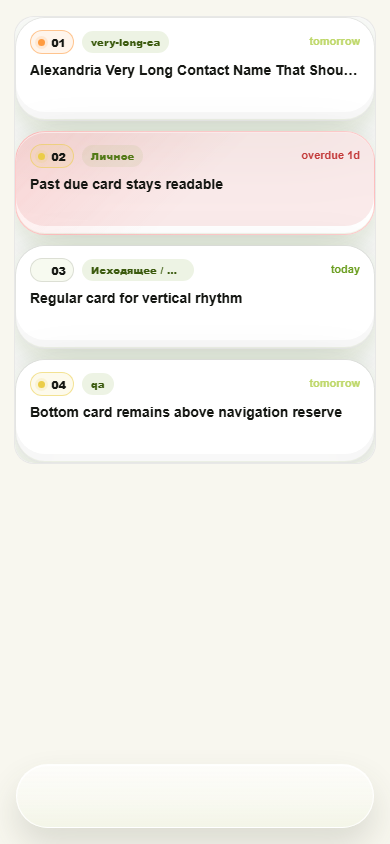
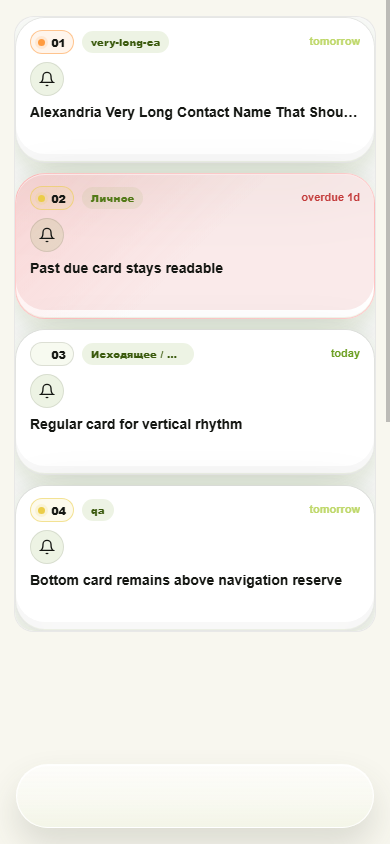
docs(ui): close glass package two handoff

Changed region(s): [[0.0308, 0.0, 1.0, 0.5545], [0.0615, 0.5545, 0.9231, 0.7085], [0.8923, 0.5237, 0.9538, 0.5545]]

diff --git a/pm/outbox/REPORT-BRIEF-2026-07-24-56-glass-package2-visual-qa-handoff.md b/pm/outbox/REPORT-BRIEF-2026-07-24-56-glass-package2-visual-qa-handoff.md
@@ -1,36 +1,105 @@
 # REPORT-BRIEF-2026-07-24-56-glass-package2-visual-qa-handoff
 
-Outcome: `BLOCKED-DEPENDENCY`
+Outcome: `DONE`
 
-## Dependency Gate
+## Scope
 
-Brief 56 is the package 2 closeout and requires outcomes/evidence from briefs 53, 54 and 55.
+Closed the package 2 visual QA handoff for the already completed glass slices.
+No new runtime design family was added. The only code change was a narrow
+`smoke:back050` reliability fix: the script now uses the same Windows
+Chrome/Edge candidates and bounded Chrome cleanup pattern as the working
+home smoke.
 
-Current state:
+Production and `main` were untouched. No CAL, price, payment, entitlement,
+auth-security or secret work was touched.
 
-- 53: `BLOCKED-DEPENDENCY`, commit `615d4444e420e522c8b8473c988d404adc1d7402`
-- 54: `BLOCKED-DEPENDENCY`, commit `2539105bb198ef7aa64469bae474c939d0884820`
-- 55: `BLOCKED-DEPENDENCY`, commit `f2d06532fd489849ddcc1431dfec256e41571525`
+## Brief / Commit Matrix
 
-Because package 2 runtime work did not happen, a package 2 visual QA handoff would be misleading and was not produced.
+| Brief | Outcome | Commit |
+| --- | --- | --- |
+| `BRIEF-2026-07-24-53-glass-home-focus-dashboard-package2.md` | `DONE` | `60dd5979d8e9a2859c2acbf73e31733afb669afd` |
+| `BRIEF-2026-07-24-54-glass-task-list-card-family-package2.md` | `DONE` | `a839a26d9b88c985f223de4cc4ca291d0b78158a` |
+| `BRIEF-2026-07-24-55-glass-profile-menu-package2.md` | `DONE` | `2fa8e39da4dd1e3f126d8f932a1f050d8ad9f007` |
 
-## Root Cause
+## Evidence Set
 
-Brief 56 asks to confirm 53, 54 and 55 outcomes and capture a coherent package 2 evidence set. Those prerequisite briefs are blocked by the brief 52 `NEED-CLAUDE` QA gate.
+Home/focus light and dark at 390x844:
 
-## Changed Files
+- `docs/tasks/assets/HOME-001-dashboard-smoke-2026-07-20-light.png`
+- `docs/tasks/assets/HOME-001-dashboard-smoke-2026-07-20-dark.png`
+- `npm run smoke:home001`: `ok=true`, `failures=[]`, `viewportWidth=390`, `documentScrollWidth=390`, `homeRows=3`, `dark.scrollWidth=390`, `light.scrollWidth=390`.
 
-- `pm/inbox/BRIEF-2026-07-24-56-glass-package2-visual-qa-handoff.md`
-- `pm/outbox/REPORT-BRIEF-2026-07-24-56-glass-package2-visual-qa-handoff.md`
-- `shared/WORK_LOG.md`
-- `DEVELOPMENT_LOG.md`
+Task list with overdue, normal and completed states:
+
+- `docs/tasks/assets/BACK-019-task-card-glass-2026-07-27-light.png`
+- `docs/tasks/assets/BACK-019-task-card-glass-2026-07-27-dark.png`
+- `npm run smoke:back019`: `ok=true`, `failures=[]`, `viewportWidth=390`, `documentScrollWidth=390`, `doneFetchCount=1`, `doneFailureToast="Не удалось завершить задачу"`, `lastCardBottom=631`, `navTop=764`.
+
+Profile/menu light and dark at 390x844:
+
+- `docs/tasks/assets/PROFILE-glass-package2-2026-07-28-light.png`
+- `docs/tasks/assets/PROFILE-glass-package2-2026-07-28-dark.png`
+- `npm run smoke:profile-glass`: `PASS`, both themes `viewportWidth=390`, `documentScrollWidth=390`, profile visible, row touch target `44px`.
+
+Desktop overflow:
+
+- `npm run test:e2e:web`: `16 passed`.
+- Desktop coverage includes `navigation-safe-area.spec.ts` home bottom navigation without horizontal overflow and global navigation without horizontal overflow.
 
 ## Verification
 
-- Runtime files were not changed.
-- `index.html` was not edited; Step 0 was not applicable.
-- Guard commands are run before commit: `node scripts/check-cp1251-mojibake.mjs`, `npm run check:portable-paths`, `git diff --check`.
+```text
+npm run smoke:home001
+PASS: ok=true, failures=[]
 
-## Next Step
+npm run smoke:back019
+PASS: ok=true, failures=[]
 
-After package 2 is unblocked and briefs 53-55 are actually completed, rerun the focused package 2 gate and produce a real handoff.
+npm run smoke:back050
+PASS: ok=true, failures=[]
+
+npm run smoke:profile-glass
+PASS
+
+npm run test:e2e:web
+PASS: 16 passed
+```
+
+```text
+node --check scripts/back-050-accessibility-smoke.mjs
+PASS
+
+node scripts/check-cp1251-mojibake.mjs
+CP1251 mojibake check passed: 0 suspicious tokens
+
+$env:BASH_PATH='C:\Program Files\Git\bin\bash.exe'; npm run check:portable-paths
+Portable path check passed.
+
+git diff --check
+PASS
+```
+
+## Implemented vs Deferred Families
+
+Implemented in package 2:
+
+- home/focus dashboard surfaces;
+- Telegram task-list cards, including overdue, normal, completed and swipe/done states;
+- safe Telegram profile/menu surfaces excluding subscription/security-sensitive rows.
+
+Deferred:
+
+- global `DESIGN-GLASS-001` completion;
+- global form fields and dialogs;
+- chat conversation surface consolidation;
+- task-detail variable consolidation;
+- reference file restoration under `pm/design-references/`;
+- real Telegram Mini App phone visual QA.
+
+## Morning Review Questions
+
+1. Should package 3 start with dialogs/forms or chat conversation surfaces?
+2. Should missing `pm/design-references/` files be restored to app PM storage or kept only in private docs?
+3. Is the task-detail `--detail-*` token family acceptable until a separate consolidation brief?
+4. Should real TMA phone visual QA be scheduled before any next glass package?
+5. Are subscription/security profile rows intentionally excluded from glass row hover treatment for beta?

diff --git a/pm/design-system-glass-inventory-2026-07-27.md b/pm/design-system-glass-inventory-2026-07-27.md
@@ -140,3 +140,26 @@ Checks:
 - `node scripts/check-cp1251-mojibake.mjs` passed with `0 suspicious tokens`;
 - `git diff --check` passed;
 - `npm run check:portable-paths` and `npm run check:ui-architecture` could not start because `bash` is not on `PATH` in this shell.
+
+## 2026-07-28 Package 2 Handoff
+
+Brief 56 rechecked package 2 evidence after the previously blocked package
+slices were completed.
+
+Package 2 families now marked complete:
+
+- Home/focus dashboard surfaces: `DONE`, commit `60dd5979d8e9a2859c2acbf73e31733afb669afd`.
+- Telegram task-list card family: `DONE`, commit `a839a26d9b88c985f223de4cc4ca291d0b78158a`.
+- Safe Telegram profile/menu surfaces: `DONE`, commit `2fa8e39da4dd1e3f126d8f932a1f050d8ad9f007`.
+
+Evidence refreshed:
+
+- home/focus light and dark 390x844 screenshots;
+- task-card light and dark 390x844 screenshots covering overdue, normal and completed states;
+- profile/menu light and dark 390x844 screenshots;
+- desktop home overflow coverage through `npm run test:e2e:web`.
+
+Status note: package 2 is closed, but global `DESIGN-GLASS-001` is not
+complete. Missing/risk areas above remain open, especially global forms,
+dialogs, chat conversation variables, task-detail variable consolidation and
+reference-file restoration.

diff --git a/pm/inbox/BRIEF-2026-07-24-56-glass-package2-visual-qa-handoff.md b/pm/inbox/BRIEF-2026-07-24-56-glass-package2-visual-qa-handoff.md
@@ -1,4 +1,4 @@
-status: NEW
+status: DONE
 
 # BRIEF-2026-07-24-56-glass-package2-visual-qa-handoff
 
